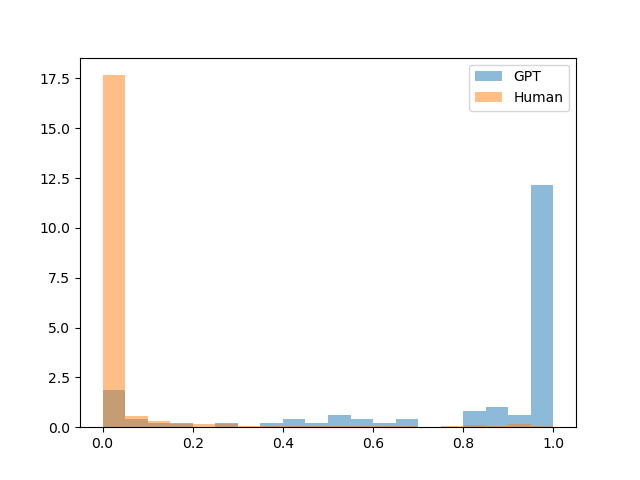
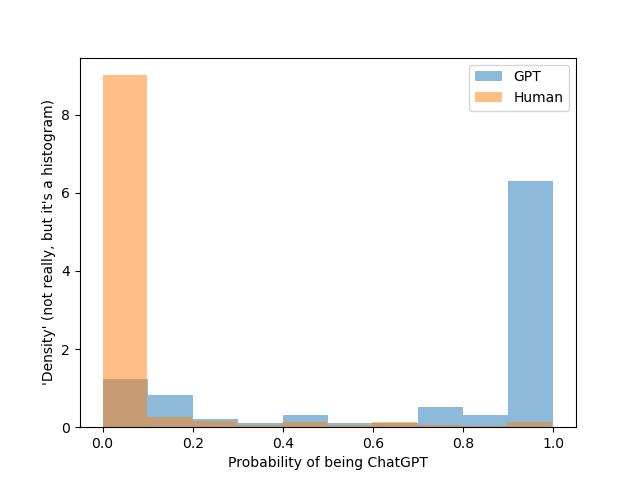
added a more clear test case

diff --git a/main.py b/main.py
@@ -61,8 +61,8 @@ preds_gpt = [float(x) for x in model.predict(predict_new_gpt)]
 preds_human = [float(x) for x in model.predict(predict_my_input)]
 
 ## create a plot of the distributions of values in each output
-plt.hist(preds_gpt, bins=5, alpha=0.5, label='GPT', density=True)
-plt.hist(preds_human, bins=5, alpha=0.5, label='Human', density=True)
+plt.hist(preds_gpt, bins=10, alpha=0.5, label='GPT', density=True)
+plt.hist(preds_human, bins=10, alpha=0.5, label='Human', density=True)
 plt.xlabel("Probability of being ChatGPT")
 plt.ylabel("'Density' (not really, but it's a histogram)")
 plt.legend(loc='upper right')
